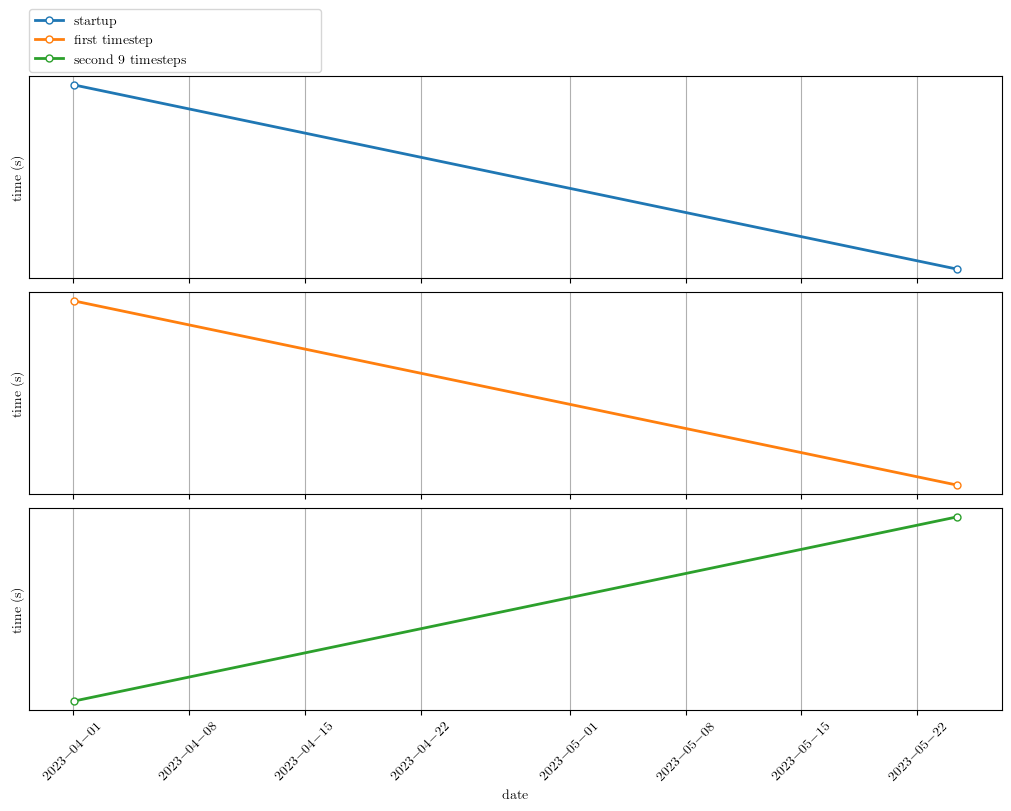
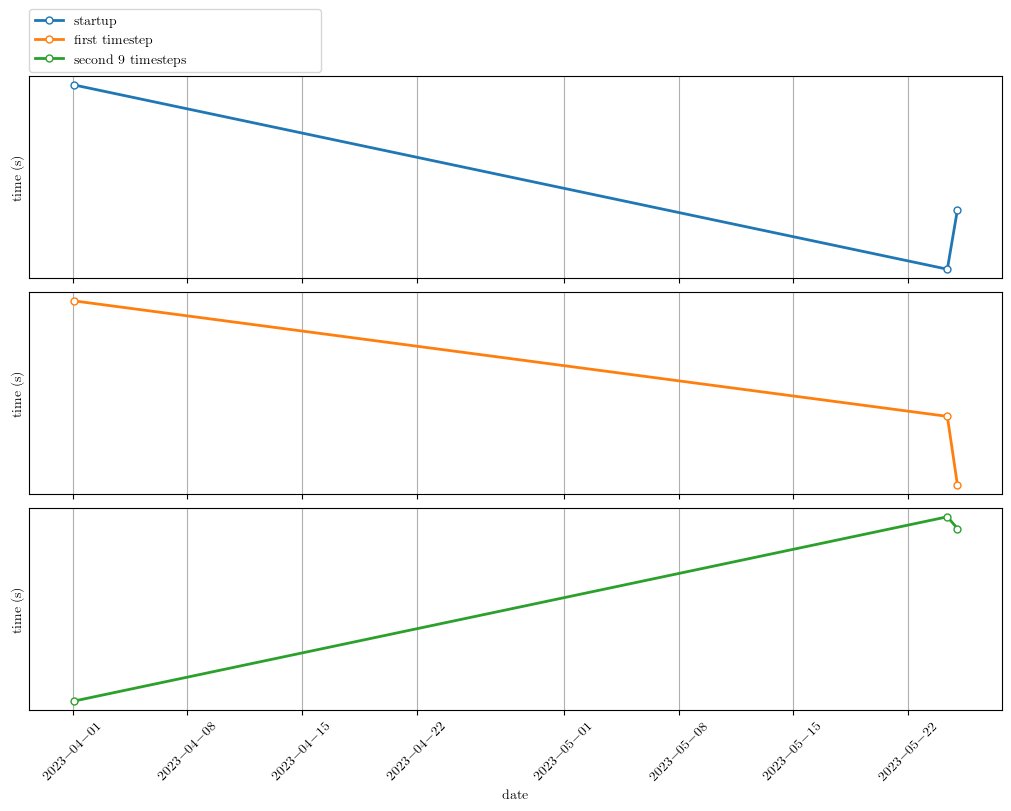
Automatic timing summary commit: lassen708 2023-05-25 01:01

diff --git a/README.md b/README.md
@@ -1,4 +1,4 @@
-Timings last ran on: 2023.05.24
+Timings last ran on: 2023.05.25
 
 # Status of production timings
 
